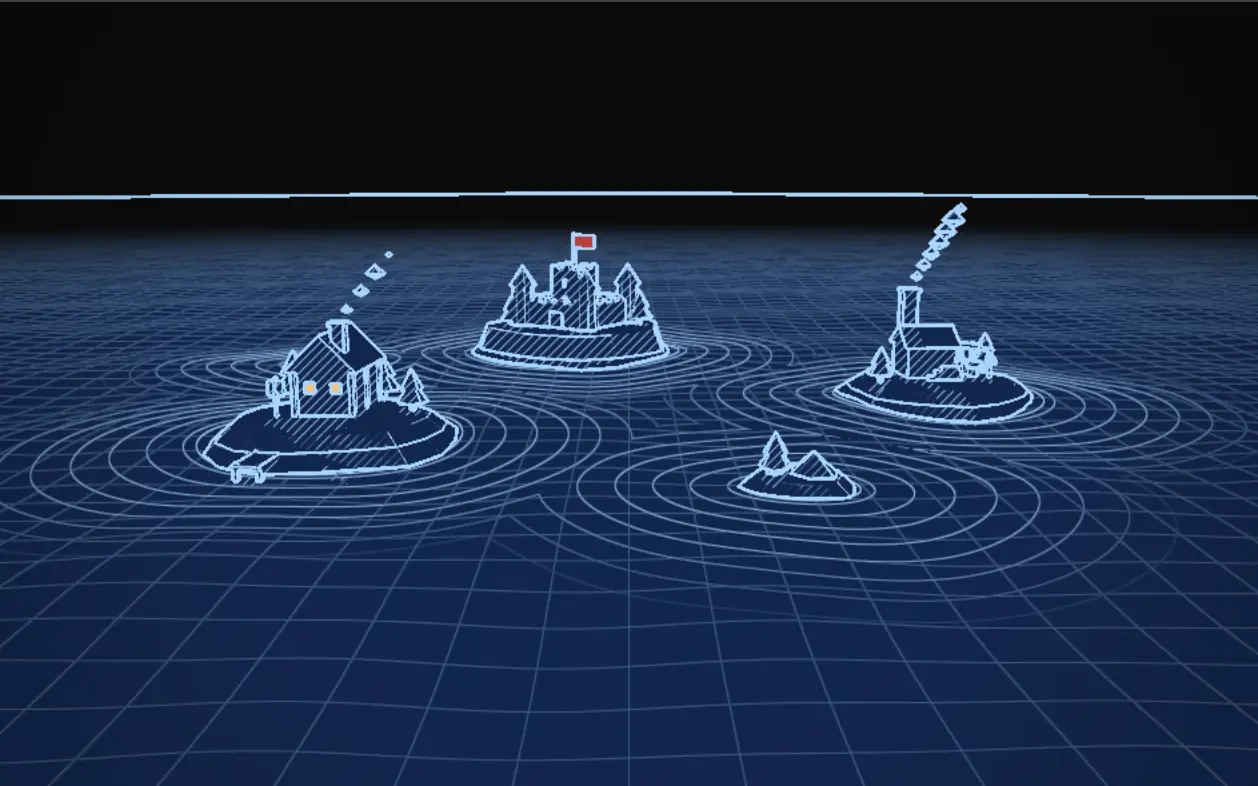
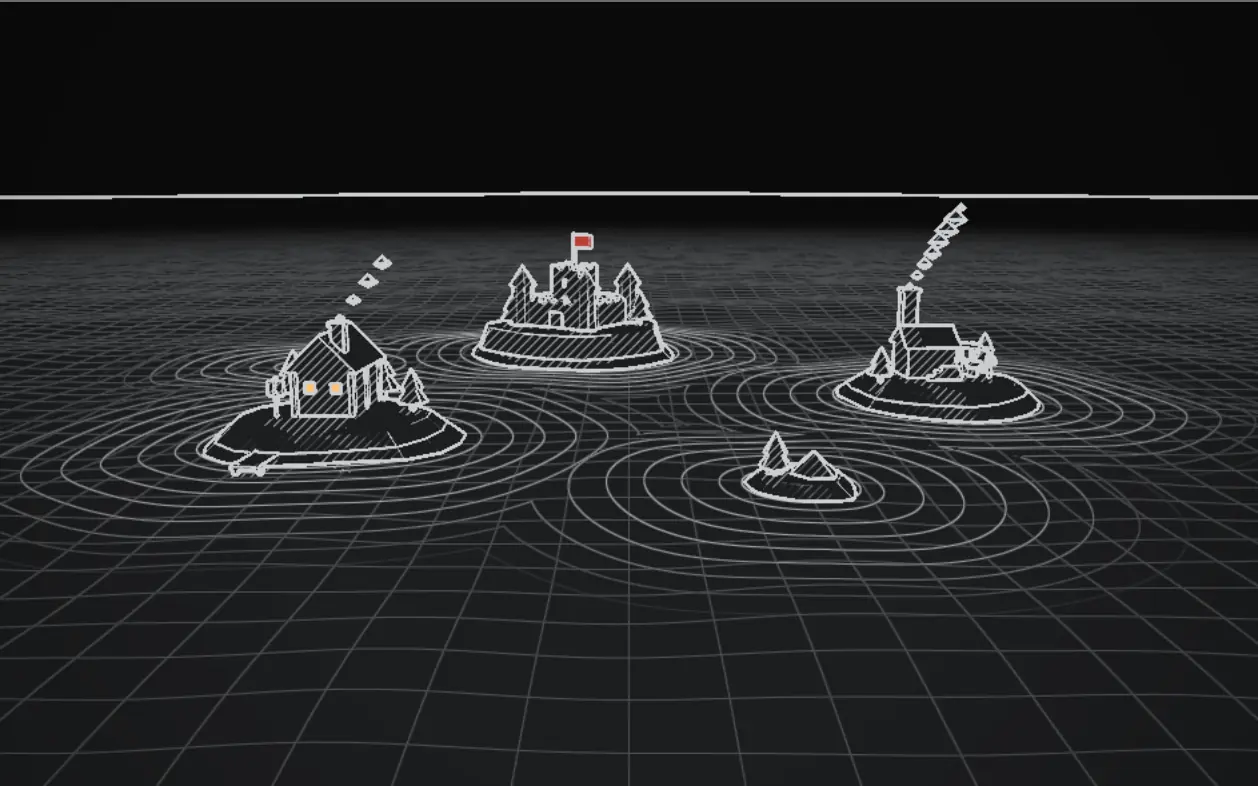
Shuffle real Keys on the homepage card; charcoal seas by night
The homepage's next-Key shuffle now plays a hundred real Keys from the
trait table, drawn whole like the turning cards lower on the page but
from their own fixed seeds, so none repeats a turning card. The pass
fades out under the shuffle so its key no longer shows past the edge.
The picture drops from 3.3 MB to 1.9 MB.

In dark mode the harbour seas are dark charcoal with pale grey lines
instead of blue; the night stills are redrawn to match.

diff --git a/key-art/page/shuffle.ts b/key-art/page/shuffle.ts
@@ -1,76 +1,49 @@
 /**
  * Draws the cards the homepage's Key card shuffles through when it is pointed at:
- * Keys of no fleet's deck, in the Interim Access Pass's own look. Each is a Key
- * the trait table could draw, kept to a black card, dark plain metal, a warm crown
- * and a plain satin foil, with its slot on the left, so every card fits where the
- * interim pass sits.
- * `window.shuffleCards(cards, size, frame)` draws each card at `size`, cuts
- * `frame.box` out of it and answers one PNG data URL per card at `frame.size`,
- * cut out of the studio (shuffle.mjs bundles the card shader that way).
+ * real Keys from the trait table, of no fleet's deck, drawn whole like the turning
+ * cards lower on the page, key and all.
+ * `window.shuffleCards(cards, size, scale)` draws each card at `size` and answers
+ * one PNG data URL per card at `size` times `scale`, cut out of the studio
+ * (shuffle.mjs bundles the card shader that way).
  */
 
 import {keyJob} from "../../platform/assets/js/key_card/paint"
 import {startStills} from "../../platform/assets/js/key_card/stage"
-import {drawKey, seedNumber, type Key} from "../../platform/assets/js/key_card/traits"
+import {drawKey, seedNumber} from "../../platform/assets/js/key_card/traits"
 
 type Card = {seed: string}
 type Size = [number, number]
-type Frame = {box: [number, number, number, number]; size: Size}
 
 declare global {
   interface Window {
-    shuffleCards?: (cards: Card[], size: Size, frame: Frame) => Promise<string[]>
+    shuffleCards?: (cards: Card[], size: Size, scale: number) => Promise<string[]>
   }
 }
 
-/** The exteriors whose slot opens on the card's left edge, as the interim pass's does. */
-const LEFT_SLOT = ["Signal", "Lantern", "Foundry", "Wyvern"]
-/** The black card shells, nearest the interim pass's. */
-const DARK_SHELL = ["Obsidian", "Carbon Weave"]
-/** The dark metals for the key and fittings, as the interim pass's are black. */
-const DARK_METAL = ["Graphite", "Meteorite"]
-/** The warm crowns nearest the interim pass's Tangerine enamel. */
-const WARM_CROWN = ["Copper", "Bronze", "Ruby Glass"]
-/** The foil that leaves a black card black. */
-const FOIL = "Satin"
-/** The wear that keeps the metal dark and plain. */
-const QUIET_PATINA = ["Mint", "Satin", "Hand-Rubbed", "Smoke"]
-/** The words under KEYFLEET, as the interim pass prints them. */
-const TOP_LINE = "ACCESS PASS"
+/** The words under KEYFLEET, as the turning cards print them. */
+const TOP_LINE = "KEYFLEET"
 
-const pick = (from: string[], n: number) => from[n % from.length]
-
-/** The drawn pixels, cut to the frame and scaled to its size, as a PNG. */
-const png = (pixels: Uint8Array, [w, h]: Size, {box: [x, y, bw, bh], size: [fw, fh]}: Frame): string => {
+/** The drawn pixels, scaled down, as a PNG. */
+const png = (pixels: Uint8Array, [w, h]: Size, scale: number): string => {
   const drawn = document.createElement("canvas")
   drawn.width = w
   drawn.height = h
   drawn.getContext("2d")!.putImageData(new ImageData(new Uint8ClampedArray(pixels), w, h), 0, 0)
   const frame = document.createElement("canvas")
-  frame.width = fw
-  frame.height = fh
+  frame.width = Math.round(w * scale)
+  frame.height = Math.round(h * scale)
   const g = frame.getContext("2d")!
   g.imageSmoothingQuality = "high"
-  g.drawImage(drawn, x, y, bw, bh, 0, 0, fw, fh)
+  g.drawImage(drawn, 0, 0, frame.width, frame.height)
   return frame.toDataURL("image/png")
 }
 
-window.shuffleCards = async (cards, size, frame) => {
+window.shuffleCards = async (cards, size, scale) => {
   const draw = await startStills(size)
   if (!draw) throw new Error("this browser has no WebGPU")
   const drawn: string[] = []
   for (const {seed} of cards) {
-    const n = seedNumber(seed)
-    const key: Key = {
-      ...drawKey(seed),
-      exterior: pick(LEFT_SLOT, n),
-      shell: pick(DARK_SHELL, n >>> 8),
-      metal: pick(DARK_METAL, n >>> 12),
-      crown: pick(WARM_CROWN, n >>> 16),
-      foil: FOIL,
-      patina: pick(QUIET_PATINA, n >>> 24),
-    }
-    drawn.push(png(await draw(await keyJob(key, n, TOP_LINE)), size, frame))
+    drawn.push(png(await draw(await keyJob(drawKey(seed), seedNumber(seed), TOP_LINE)), size, scale))
   }
   return drawn
 }

diff --git a/platform/assets/js/hooks/home_hero.ts b/platform/assets/js/hooks/home_hero.ts
@@ -568,8 +568,8 @@ function dustAround(canvas: HTMLCanvasElement, card: HTMLElement, near: () => vo
  * the card a little toward the pointer, and it settles when the pointer leaves.
  * Once it is level again it keeps no turn of its own: the stylesheet has it.
  * Dust gathers outside its edge on the side facing the pointer, and pointing at
- * the card or the button flashes it into a shuffle of a hundred Keys, which
- * dissolves back to the pass when the pointer leaves both. The shuffle's
+ * the card or the button flashes it into a shuffle of a hundred Keys, the pass
+ * fading out under it, and the two dissolve back when the pointer leaves both. The shuffle's
  * picture loads the first time the dust shows. A finger, a keyboard or less
  * motion gets the card as it is.
  */
@@ -579,6 +579,7 @@ export const NextKeyCard = {
     const area = root.closest<HTMLElement>("[data-key-preview]") ?? root
     const tilt = root.querySelector<HTMLElement>("[data-key-tilt]")!
     const dust = root.querySelector<HTMLCanvasElement>("[data-key-dust]")!
+    const pass = root.querySelector<HTMLImageElement>("[data-key-pass]")!
     const shuffle = root.querySelector<HTMLImageElement>("[data-key-shuffle]")!
     let turn: AnimatableObject | undefined
     let point: ((on: boolean) => void) | undefined
@@ -605,17 +606,21 @@ export const NextKeyCard = {
 
       let pointing = false
       let flash: JSAnimation | undefined
-      let fade: JSAnimation | undefined
+      let fades: JSAnimation[] = []
+      // The shuffle comes in as the pass goes, and the other way round; each
+      // Key's key reaches past the card, where the pass's own would show.
       const reveal = () => {
         if (!pointing) return
         shuffle.style.visibility = "visible"
-        fade?.cancel()
-        fade = animate(shuffle, {opacity: 1, duration: FAST, ease: EASE_OUT})
+        fades = [
+          animate(shuffle, {opacity: 1, duration: FAST, ease: EASE_OUT}),
+          animate(pass, {opacity: 0, duration: FAST, ease: EASE_OUT}),
+        ]
       }
       point = on => {
         if (on === pointing) return
         pointing = on
-        fade?.cancel()
+        fades.forEach(fade => fade.cancel())
         if (on) {
           flash?.cancel()
           flash = animate(tilt, {
@@ -628,24 +633,33 @@ export const NextKeyCard = {
           load()
           shuffle.decode().then(reveal, () => {})
         } else {
-          fade = animate(shuffle, {
-            opacity: 0,
-            duration: DISSOLVE,
-            ease: EASE_IN_OUT,
-            onComplete: () => {
-              shuffle.style.visibility = "hidden"
-            },
-          })
+          fades = [
+            animate(shuffle, {
+              opacity: 0,
+              duration: DISSOLVE,
+              ease: EASE_IN_OUT,
+              onComplete: () => {
+                shuffle.style.visibility = "hidden"
+              },
+            }),
+            animate(pass, {
+              opacity: 1,
+              duration: DISSOLVE,
+              ease: EASE_IN_OUT,
+              onComplete: () => pass.style.removeProperty("opacity"),
+            }),
+          ]
         }
       }
       return () => {
         drawing.abort()
         stopDust()
         flash?.cancel()
-        fade?.cancel()
+        fades.forEach(fade => fade.cancel())
         tilt.style.removeProperty("filter")
         shuffle.style.removeProperty("visibility")
         shuffle.style.removeProperty("opacity")
+        pass.style.removeProperty("opacity")
         turn = undefined
         point = undefined
       }

diff --git a/platform/test/browser/homepage_details.spec.ts b/platform/test/browser/homepage_details.spec.ts
@@ -171,8 +171,9 @@ test.describe("on a desktop", () => {
     await expect.poll(async () => (await lit()).left).toBe(0)
   })
 
-  // Pointing at the card or its button flashes the card and shows the shuffle;
-  // leaving both dissolves it back to the pass over about half a second.
+  // Pointing at the card or its button flashes the card and shows the shuffle,
+  // the pass fading out under it; leaving both dissolves the two back over
+  // about half a second.
   for (const [what, target] of [
     ["the card", "#home-buy-card"],
     ["the button", "#home-buy-next-key"],
@@ -183,6 +184,7 @@ test.describe("on a desktop", () => {
       await live(page)
       const shuffle = page.locator("#home-buy-shuffle")
       const seen = (property: "opacity" | "visibility") => shuffle.evaluate((img, name) => getComputedStyle(img)[name], property)
+      const pass = () => page.locator("#home-buy-pass").evaluate(img => getComputedStyle(img).opacity)
       await page.locator("#home-buy-tilt").evaluate(tilt => {
         const flashes: string[] = []
         new MutationObserver(() => flashes.push(tilt.style.filter)).observe(tilt, {attributeFilter: ["style"]})
@@ -192,6 +194,7 @@ test.describe("on a desktop", () => {
       await page.locator(target).hover()
       await expect(shuffle).toHaveAttribute("src", /next-key-shuffle/)
       await expect.poll(() => seen("opacity")).toBe("1")
+      await expect.poll(pass).toBe("0")
       expect(await page.evaluate(() => (window as unknown as {flashes: string[]}).flashes.some(f => f.includes("brightness")))).toBe(true)
       await expect.poll(() => page.locator("#home-buy-tilt").evaluate(tilt => tilt.style.filter)).toBe("")
 
@@ -200,6 +203,7 @@ test.describe("on a desktop", () => {
       await expect.poll(() => seen("visibility")).toBe("hidden")
       const gone = await page.evaluate(() => performance.now())
       expect(await seen("opacity")).toBe("0")
+      expect(await pass()).toBe("1")
       expect(gone - left, "the dissolve takes about half a second").toBeGreaterThanOrEqual(450)
     })
   }

diff --git a/platform/assets/css/pages/home.css b/platform/assets/css/pages/home.css
@@ -73,9 +73,14 @@
      its button flashes the card into a shuffle of a hundred Keys, which
      dissolves back to the pass when the pointer leaves. NextKeyCard draws the
      dust in the warm light of the hex field and shows the shuffle over the
-     pass. */
+     pass. Each shuffled Key is drawn whole, its key reaching past its card,
+     so the picture is larger than the pass: its cards (columns 62 to 417 and
+     rows 50 to 549 of 480 by 600) sit centred on the pass's card at its width. */
   .rl-buy__dust { position: absolute; inset: -3rem; inline-size: calc(100% + 6rem); block-size: calc(100% + 6rem); pointer-events: none; color: var(--rl-field-light); }
-  .rl-buy__shuffle { position: absolute; inset: 0; visibility: hidden; opacity: 0; }
+  .rl-buy__tilt .rl-buy__shuffle {
+    position: absolute; inset-inline-start: -7.02%; inset-block-start: -10.94%;
+    inline-size: 122.47%; block-size: 121.82%; visibility: hidden; opacity: 0;
+  }
   /* The price on the card itself, beside the crown in its lower corner (the
      crown ends 197 of the picture's 716 columns in and 40 of its 900 rows up).
      The card's art is dark in both themes, so the tag keeps light ink on

diff --git a/platform/assets/js/harbour/shaders.ts b/platform/assets/js/harbour/shaders.ts
@@ -82,9 +82,9 @@ struct Scene {
 
 // Paper and ink, by day and by night (display colours).
 const PAPER_DAY: vec3f = vec3f(0.95, 0.96, 0.97);
-const PAPER_NIGHT: vec3f = vec3f(0.07, 0.15, 0.3);
+const PAPER_NIGHT: vec3f = vec3f(0.11, 0.115, 0.12);
 const INK_DAY: vec3f = vec3f(0.12, 0.3, 0.62);
-const INK_NIGHT: vec3f = vec3f(0.66, 0.84, 1.0);
+const INK_NIGHT: vec3f = vec3f(0.8, 0.81, 0.82);
 
 fn paper() -> vec3f {
   return mix(PAPER_DAY, PAPER_NIGHT, scene.night);

diff --git a/platform/assets/js/harbour/renderer.ts b/platform/assets/js/harbour/renderer.ts
@@ -124,7 +124,7 @@ const DAY_SUN = normalize([0.55, 0.9, -0.35])
 const NIGHT_SUN = normalize([-0.35, 0.85, -0.45])
 /** The ink of the outlines, as INK_DAY and INK_NIGHT in the shaders. */
 const DAY_INK = [0.12, 0.3, 0.62]
-const NIGHT_INK = [0.66, 0.84, 1.0]
+const NIGHT_INK = [0.8, 0.81, 0.82]
 
 /** `layout` names the harbour drawn: its islands and where its buildings stand. */
 export async function createHarbourRenderer(

diff --git a/CHANGELOG.md b/CHANGELOG.md
@@ -2480,10 +2480,11 @@ Do not edit, reorder, or remove existing entries; append corrections separately.
   facing the pointer, follows it round the edge and brightens as it comes
   closer.
 - Pointing at the card or at "Buy Next Key" flashes the card and starts a
-  shuffle through a hundred Keys in the interim pass's own look, ten a second,
-  on a loop. Leaving both dissolves it back to the interim pass over half a
-  second.
-- The shuffle is one 3.3 MB animated picture that loads only under a mouse,
+  shuffle through a hundred real Keys, drawn whole like the turning cards
+  further down but none of the same ones, ten a second, on a loop, the interim
+  pass fading out beneath it. Leaving both dissolves it back to the interim
+  pass over half a second.
+- The shuffle is one 1.9 MB animated picture that loads only under a mouse,
   once the dust shows. `node key-art/shuffle.mjs` draws it again.
 - With less motion asked for, and on a phone or tablet, the card stays the
   interim pass with no dust or shuffle. "Buy Next Key" works as before.
@@ -2492,3 +2493,13 @@ Do not edit, reorder, or remove existing entries; append corrections separately.
   flash, shuffle, half-second dissolve, a hundred frames at ten a second, less
   motion, phone tap); break check: no dust and no dissolve each fail them;
   gaps: WebKit not run on the Mac.
+
+## 2026-10-19 — The seas are dark charcoal by night
+
+- In dark mode the harbour seas, on the homepage and the app's sea page, are
+  dark charcoal with pale grey lines instead of blue. The windows' and flags'
+  colours stay. Classic's and the Club's still pictures, shown before a sea
+  draws, are drawn again to match.
+- Evidence: level ordinary; feature home-fleet-seas; the night stills are the
+  sea's own drawing, held still, in headless Chromium on the graphics chip at
+  1440 wide; gaps: WebKit not run on the Mac.

diff --git a/key-art/README.md b/key-art/README.md
@@ -45,14 +45,14 @@ cd key-art
 node shuffle.mjs ../platform/priv/static/images/home/next-key-shuffle.webp
 ```
 
-The cards are Keys of no fleet's deck, from fixed seeds, in the Interim Access
-Pass's look: black shells, dark metal, warm crowns, a plain satin foil, the
-slot on the left, and half the foil, face shine and glare. Each is drawn with the site's card code
-on the graphics chip at 1200×1500, cut out of the studio, cropped to the
-pass's box and kept at 480×603. It needs `npm ci` here and in `platform/`, and
-libwebp's `cwebp` and `webpmux`. A WebP is the one animated picture with
-transparency every current browser shows in a plain image; at this size it is
-about 3.3 MB, so the page loads it only under a mouse, once its dust shows.
+The cards are real Keys from the trait table, of no fleet's deck, from fixed
+seeds unlike the thirty turning cards lower on the homepage. Each is drawn
+whole with the site's card code on the graphics chip at 1200×1500, its key
+reaching past its card, cut out of the studio and kept at 480×600. It needs
+`npm ci` here and in `platform/`, and libwebp's `cwebp` and `webpmux`. A WebP
+is the one animated picture with transparency every current browser shows in
+a plain image; at this size it is about 1.9 MB, so the page loads it only under
+a mouse, once its dust shows.
 
 ## Going live
 
